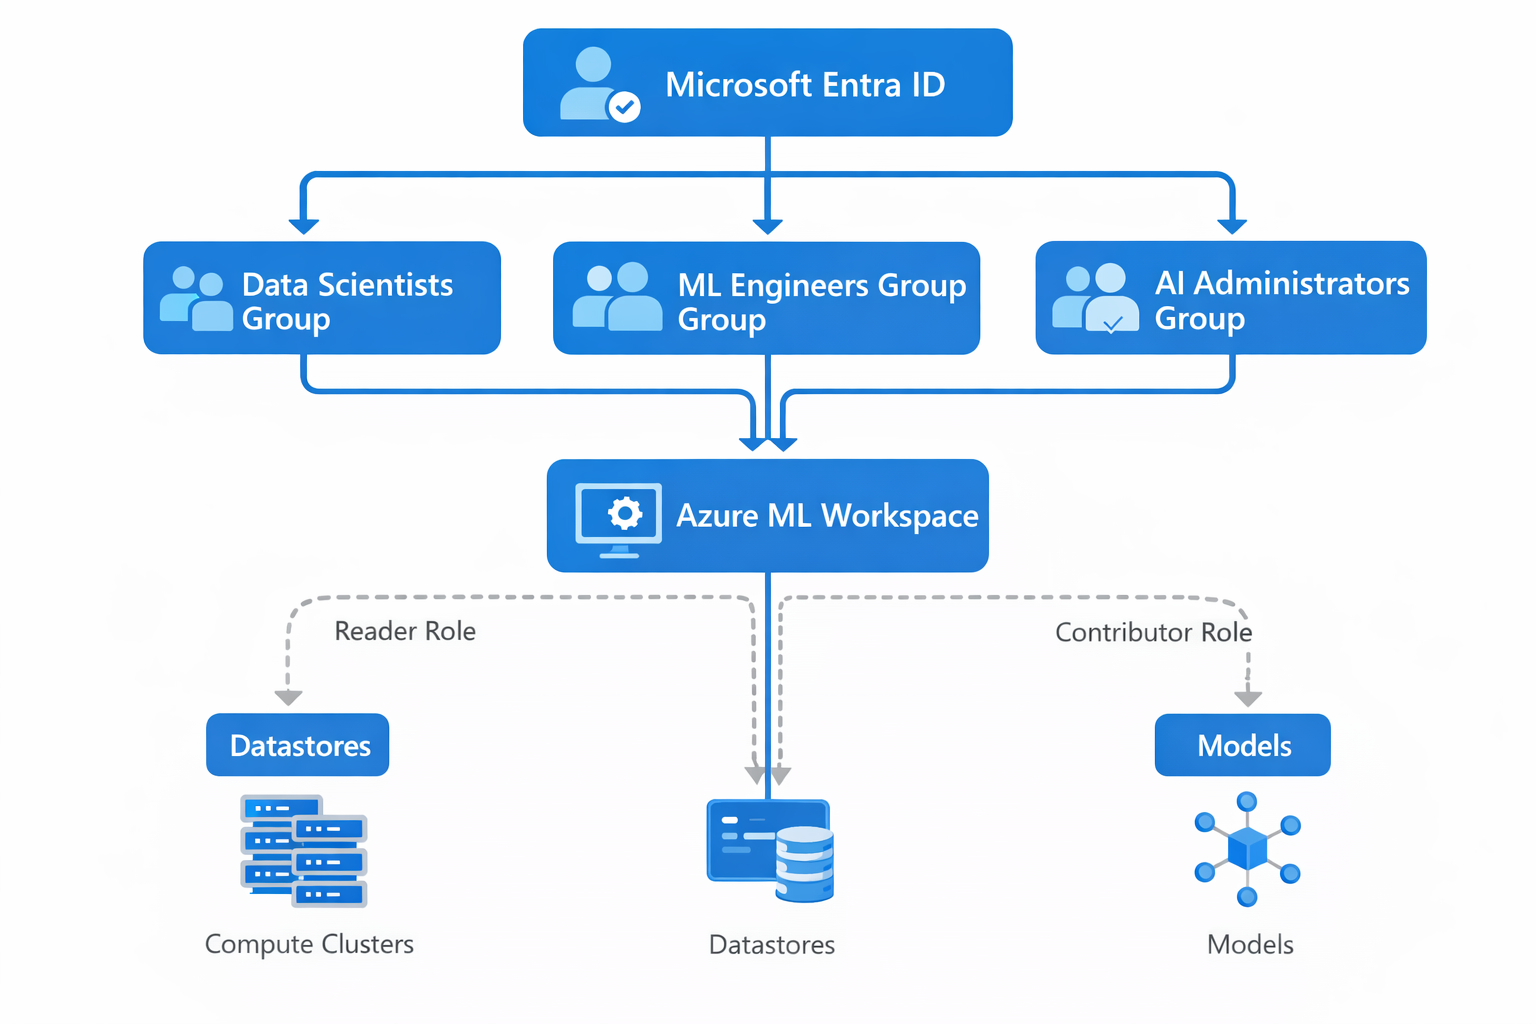
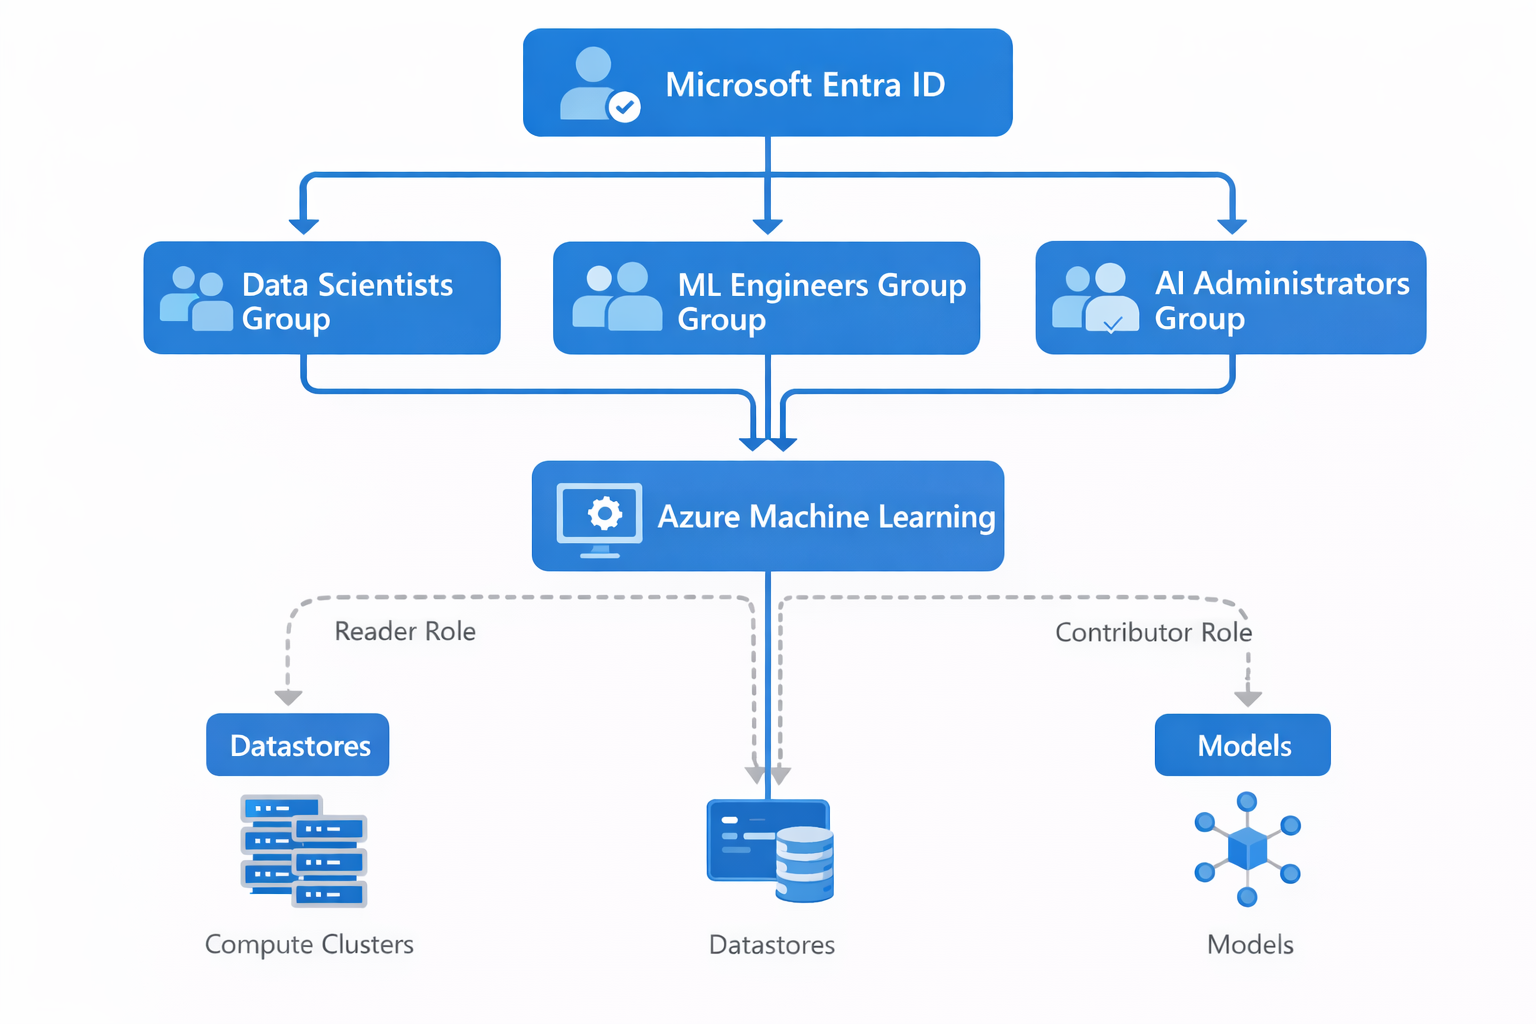
Bug fixes

Changed region(s): [[0.3438, 0.4375, 0.6562, 0.5625], [0.7812, 0.1562, 0.8125, 0.2188]]

diff --git a/learn-pr/wwl-azure/implement-identity-based-security-azure-machine-learning/includes/3-implement-conditional-access-policies-azure.md b/learn-pr/wwl-azure/implement-identity-based-security-azure-machine-learning/includes/3-implement-conditional-access-policies-azure.md
@@ -2,9 +2,9 @@ Security groups control who can access your Azure Machine Learning workspace, bu
 
 ## Evaluate sign-in context with Conditional Access
 
-Conditional Access acts as a policy enforcement checkpoint between users and your Azure ML workspace. When a data scientist attempts to sign in, the policy engine evaluates multiple signals simultaneously. It checks whether the user is connecting from a trusted network or an unfamiliar location. It verifies whether their device meets your organization's security standards—is antivirus software up to date, is the disk encrypted, are operating system patches current? It examines authentication strength—did the user provide just a password, or did they complete multifactor authentication? Based on these signals, the policy grants access, requires additional verification, or blocks the connection entirely.
+Conditional Access acts as a policy enforcement checkpoint between users and your Azure Machine Learning workspace. When a data scientist attempts to sign in, the policy engine evaluates multiple signals simultaneously. It checks whether the user is connecting from a trusted network or an unfamiliar location. It verifies whether their device meets your organization's security standards—is antivirus software up to date, is the disk encrypted, are operating system patches current? It examines authentication strength—did the user provide just a password, or did they complete multifactor authentication? Based on these signals, the policy grants access, requires additional verification, or blocks the connection entirely.
 
-:::image type="content" source="../media/conditional-access-policy-enforcement-checkpoint.png" alt-text="Diagram showing how Conditional Access acts as a policy enforcement checkpoint between users and an Azure ML workspace.":::
+:::image type="content" source="../media/conditional-access-policy-enforcement-checkpoint.png" alt-text="Diagram showing how Conditional Access acts as a policy enforcement checkpoint between users and an Azure Machine Learning workspace.":::
 
 Unlike static security groups, Conditional Access adapts to changing conditions. A data scientist signing in from your corporate office on a managed laptop requires minimal verification. The same user connecting from a coffee shop on a personal device triggers stricter controls. This dynamic approach maintains security without creating friction for legitimate users in low-risk scenarios. At the same time, it raises barriers when risk indicators suggest potential compromise—for example, simultaneous sign-in attempts from geographically distant locations within minutes.
 

diff --git a/learn-pr/wwl-azure/implement-identity-based-security-azure-machine-learning/includes/8-summary.md b/learn-pr/wwl-azure/implement-identity-based-security-azure-machine-learning/includes/8-summary.md
@@ -4,7 +4,7 @@ By implementing identity-based controls, you've demonstrated that AI infrastruct
 
 Remember these core principles as you secure more AI workspaces:
 
-- **Organize users through security groups mapped to Azure ML RBAC roles**—this separates identity management from permission management and scales efficiently as teams grow
+- **Organize users through security groups mapped to Azure Machine Learning RBAC roles**—this separates identity management from permission management and scales efficiently as teams grow
 - **Enforce multi-factor authentication through Conditional Access policies**—protect credentials without impacting productivity by adapting requirements based on location and device compliance
 - **Use managed identities for automated workloads**—eliminate credential storage risks and reduce operational overhead compared to service principals with secrets or certificates
 - **Monitor continuously through Microsoft Entra audit logs**—validate that security controls work as designed and detect anomalies before they become incidents
@@ -13,7 +13,7 @@ Remember these core principles as you secure more AI workspaces:
 
 Expand your Azure Machine Learning security posture with these advanced capabilities:
 
-- **Configure Private Link for Azure ML workspaces** to isolate network traffic and prevent public internet exposure of training data and models
+- **Configure Private Link for Azure Machine Learning workspaces** to isolate network traffic and prevent public internet exposure of training data and models
 - **Implement customer-managed keys** for workspace encryption to meet data sovereignty requirements and maintain cryptographic control
 - **Set up Microsoft Defender for Cloud integration** to detect security threats and misconfigurations across your AI infrastructure with automated remediation recommendations
 - **Explore Azure Policy for ML governance** to enforce security baselines automatically—prevent workspace creation without required network isolation or audit log configuration
